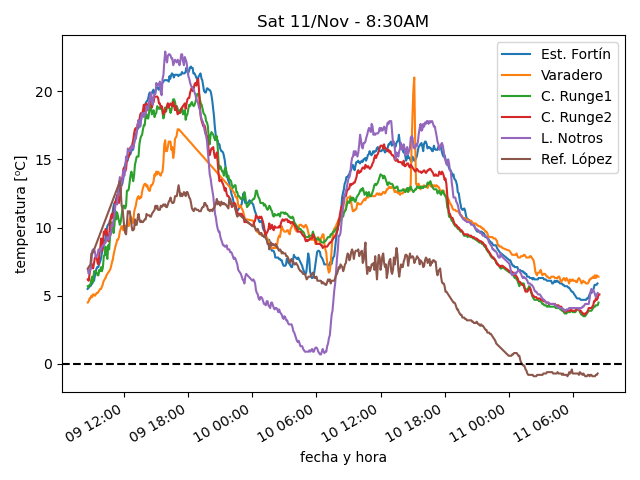
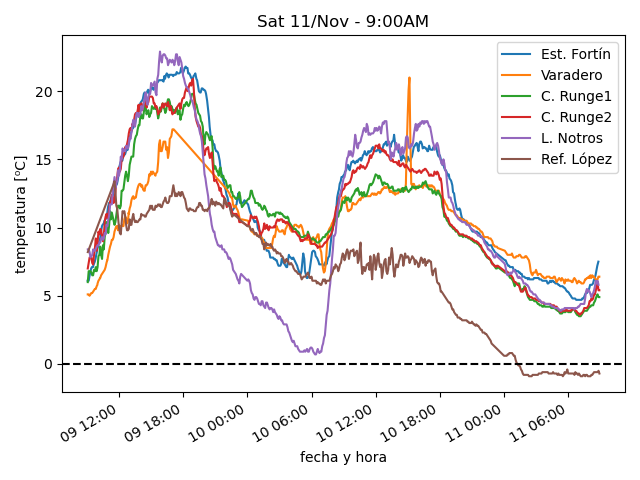
actualiza datos

diff --git a/estaciones/estacion3.html b/estaciones/estacion3.html
@@ -18,47 +18,47 @@
     </tr>
     <tr>
      <td class="stats_data">
-      8:24AM
+      8:54AM
      </td>
     </tr>
     <tr>
      <td class="stats_data">
-      4.5⁰C
+      4.9⁰C
      </td>
     </tr>
     <tr>
      <td class="stats_data">
-      4.0⁰C
+      4.1⁰C
      </td>
     </tr>
     <tr>
      <td class="stats_data">
-      96.0%
+      94.8%
      </td>
     </tr>
     <tr>
      <td class="stats_data">
-      990.72hPa
+      991.03hPa
      </td>
     </tr>
     <tr>
      <td class="stats_data">
-      8.0/11.9 km/hr NW
+      12.5/17.6 km/hr NW
      </td>
     </tr>
     <tr>
      <td class="stats_data">
-      3.3 / 1.8 mm
+      3.3 / 0.0 mm
      </td>
     </tr>
     <tr>
      <td class="stats_data">
-      1.0
+      2.0
      </td>
     </tr>
     <tr>
      <td class="stats_data">
-      166.5 W/m²
+      224.2 W/m²
      </td>
     </tr>
    </tbody>

diff --git a/estaciones/estacion1.html b/estaciones/estacion1.html
@@ -18,32 +18,32 @@
     </tr>
     <tr>
      <td class="stats_data">
-      8:19AM
+      8:49AM
      </td>
     </tr>
     <tr>
      <td class="stats_data">
-      5.9⁰C
+      7.5⁰C
      </td>
     </tr>
     <tr>
      <td class="stats_data">
-      3.1⁰C
+      3.5⁰C
      </td>
     </tr>
     <tr>
      <td class="stats_data">
-      82.3%
+      75.7%
      </td>
     </tr>
     <tr>
      <td class="stats_data">
-      997.97hPa
+      997.63hPa
      </td>
     </tr>
     <tr>
      <td class="stats_data">
-      3.1/7.5 km/hr SW
+      10.7/19.3 km/hr W
      </td>
     </tr>
     <tr>
@@ -53,12 +53,12 @@
     </tr>
     <tr>
      <td class="stats_data">
-      0.5
+      1.3
      </td>
     </tr>
     <tr>
      <td class="stats_data">
-      90.0 W/m²
+      552.0 W/m²
      </td>
     </tr>
    </tbody>

diff --git a/estaciones/estacion4.html b/estaciones/estacion4.html
@@ -18,32 +18,32 @@
     </tr>
     <tr>
      <td class="stats_data">
-      8:29AM
+      8:54AM
      </td>
     </tr>
     <tr>
      <td class="stats_data">
-      5.1⁰C
+      5.4⁰C
      </td>
     </tr>
     <tr>
      <td class="stats_data">
-      3.9⁰C
+      4.2⁰C
      </td>
     </tr>
     <tr>
      <td class="stats_data">
-      91.7%
+      91.1%
      </td>
     </tr>
     <tr>
      <td class="stats_data">
-      999.63hPa
+      999.93hPa
      </td>
     </tr>
     <tr>
      <td class="stats_data">
-      3.1/5.0 km/hr SW
+      5.1/7.5 km/hr W
      </td>
     </tr>
     <tr>
@@ -58,7 +58,7 @@
     </tr>
     <tr>
      <td class="stats_data">
-      128.5 W/m²
+      183.1 W/m²
      </td>
     </tr>
    </tbody>

diff --git a/estaciones/estacion2.html b/estaciones/estacion2.html
@@ -18,7 +18,7 @@
     </tr>
     <tr>
      <td class="stats_data">
-      8:24AM
+      8:54AM
      </td>
     </tr>
     <tr>
@@ -28,22 +28,22 @@
     </tr>
     <tr>
      <td class="stats_data">
-      4.5⁰C
+      4.4⁰C
      </td>
     </tr>
     <tr>
      <td class="stats_data">
-      88.0%
+      87.3%
      </td>
     </tr>
     <tr>
      <td class="stats_data">
-      1005.62hPa
+      1006.03hPa
      </td>
     </tr>
     <tr>
      <td class="stats_data">
-      31.7/38.2 km/hr NW
+      34.9/40.8 km/hr NW
      </td>
     </tr>
     <tr>
@@ -58,7 +58,7 @@
     </tr>
     <tr>
      <td class="stats_data">
-      270.2 W/m²
+      225.9 W/m²
      </td>
     </tr>
    </tbody>

diff --git a/estaciones/estacion6.html b/estaciones/estacion6.html
@@ -18,7 +18,7 @@
     </tr>
     <tr>
      <td class="stats_data">
-      8:20AM
+      8:55AM
      </td>
     </tr>
     <tr>
@@ -38,12 +38,12 @@
     </tr>
     <tr>
      <td class="stats_data">
-      998.0hPa
+      998.71hPa
      </td>
     </tr>
     <tr>
      <td class="stats_data">
-      9.7/20.9 km/hr NE
+      3.2/8.0 km/hr SE
      </td>
     </tr>
     <tr>
@@ -58,7 +58,7 @@
     </tr>
     <tr>
      <td class="stats_data">
-      902.0 W/m²
+      900.0 W/m²
      </td>
     </tr>
    </tbody>

diff --git a/estaciones/estacion5.html b/estaciones/estacion5.html
@@ -18,27 +18,27 @@
     </tr>
     <tr>
      <td class="stats_data">
-      8:20AM
+      8:50AM
      </td>
     </tr>
     <tr>
      <td class="stats_data">
-      5.2⁰C
+      5.8⁰C
      </td>
     </tr>
     <tr>
      <td class="stats_data">
-      4.2⁰C
+      4.4⁰C
      </td>
     </tr>
     <tr>
      <td class="stats_data">
-      93.0%
+      91.0%
      </td>
     </tr>
     <tr>
      <td class="stats_data">
-      1001.66hPa
+      1001.8hPa
      </td>
     </tr>
     <tr>
